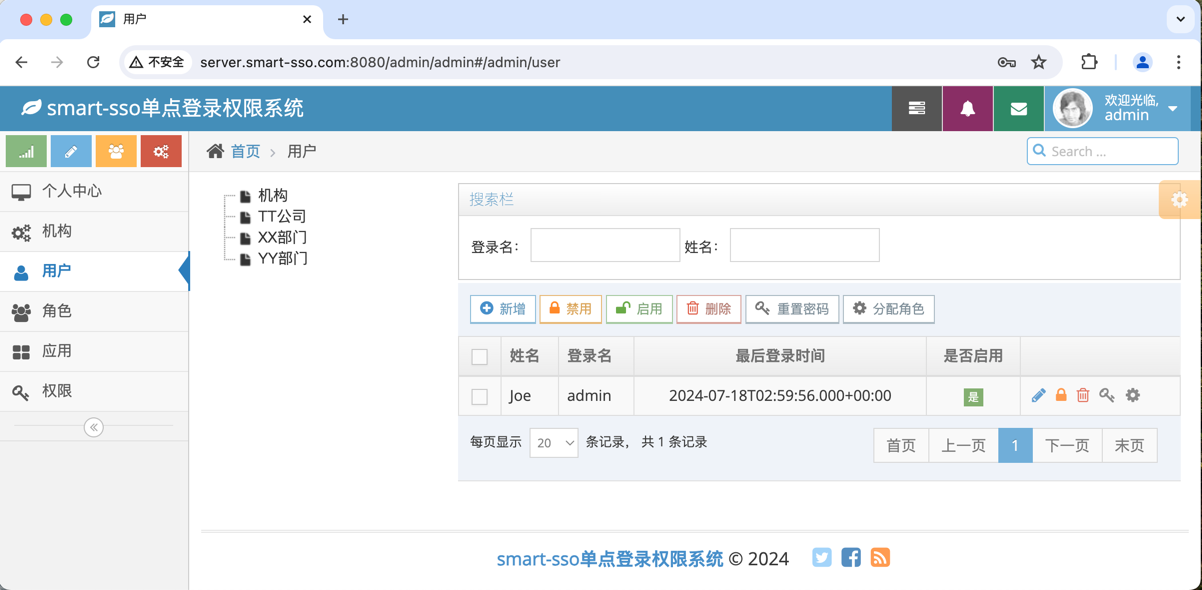
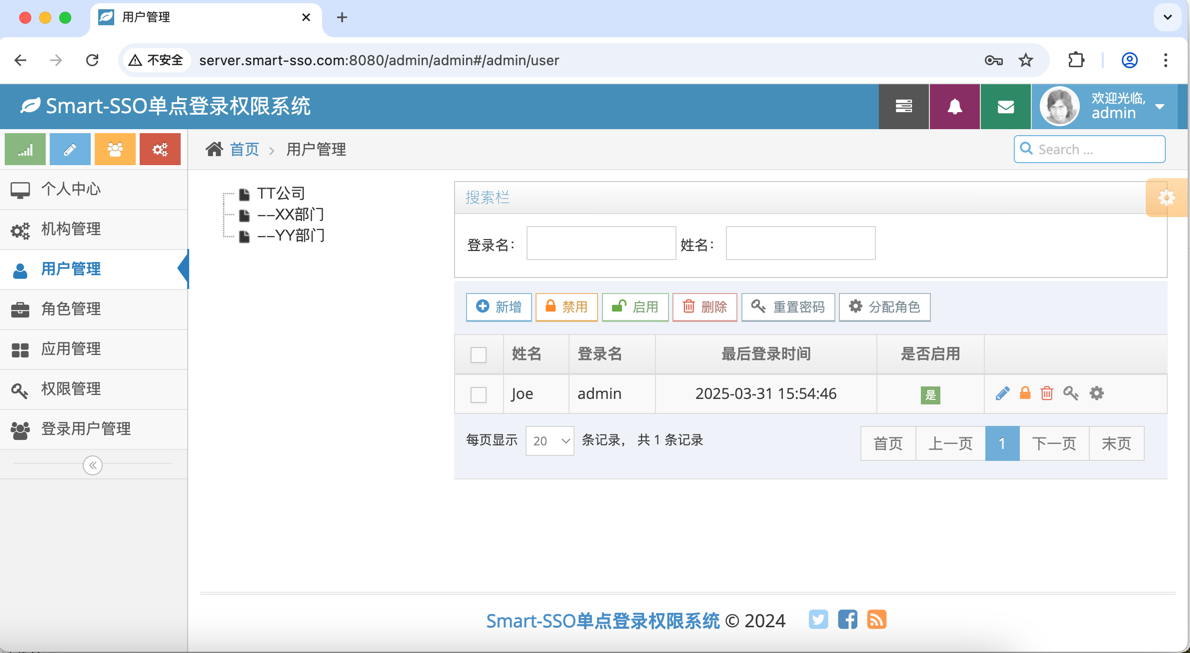
踢人下线

diff --git a/smart-sso-server/src/main/resources/templates/admin/permission.html b/smart-sso-server/src/main/resources/templates/admin/permission.html
@@ -1,4 +1,4 @@
-<title>权限</title>
+<title>权限管理</title>
 <#include "../common/common.html"/>
 
 <link rel="stylesheet" href="${request.contextPath}/static/custom/zTree/css/metroStyle/metroStyle.css?v=1" />

diff --git a/smart-sso-server/src/main/resources/templates/admin/user.html b/smart-sso-server/src/main/resources/templates/admin/user.html
@@ -1,4 +1,4 @@
-<title>用户</title>
+<title>用户管理</title>
 <#include "../common/common.html"/>
 
 <link rel="stylesheet" href="${request.contextPath}/static/custom/zTree/css/metroStyle/metroStyle.css?v=1" />

diff --git a/smart-sso-server/src/main/resources/templates/admin/login-user.html b/smart-sso-server/src/main/resources/templates/admin/login-user.html
@@ -1,4 +1,4 @@
-<title>登录用户</title>
+<title>登录用户管理</title>
 <#include "../common/common.html"/>
 
 <div class="row">

diff --git a/smart-sso-server/src/main/resources/templates/admin/app-edit.html b/smart-sso-server/src/main/resources/templates/admin/app-edit.html
@@ -1,4 +1,4 @@
-<title>应用</title>
+<title>应用管理</title>
 <#include "../common/common.html"/>
 
 <div class="page-header">

diff --git a/smart-sso-server/src/main/resources/templates/admin/office-edit.html b/smart-sso-server/src/main/resources/templates/admin/office-edit.html
@@ -1,4 +1,4 @@
-<title>机构</title>
+<title>机构管理</title>
 <#include "../common/common.html"/>
 
 <div class="page-header">

diff --git a/smart-sso-server/src/main/resources/templates/admin/user-edit.html b/smart-sso-server/src/main/resources/templates/admin/user-edit.html
@@ -1,4 +1,4 @@
-<title>用户</title>
+<title>用户管理</title>
 <#include "../common/common.html"/>
 
 <div class="page-header">

diff --git a/smart-sso-server/src/main/resources/templates/admin/app.html b/smart-sso-server/src/main/resources/templates/admin/app.html
@@ -1,4 +1,4 @@
-<title>应用</title>
+<title>应用管理</title>
 <#include "../common/common.html"/>
 
 <div class="row">

diff --git a/smart-sso-server/src/main/resources/templates/admin/office.html b/smart-sso-server/src/main/resources/templates/admin/office.html
@@ -1,4 +1,4 @@
-<title>机构</title>
+<title>机构管理</title>
 <#include "../common/common.html"/>
 
 <div class="row">

diff --git a/smart-sso-server/src/main/resources/templates/admin/role.html b/smart-sso-server/src/main/resources/templates/admin/role.html
@@ -1,4 +1,4 @@
-<title>角色</title>
+<title>角色管理</title>
 <#include "../common/common.html"/>
 
 <div class="row">

diff --git a/smart-sso-server/src/main/resources/templates/admin/role-edit.html b/smart-sso-server/src/main/resources/templates/admin/role-edit.html
@@ -1,4 +1,4 @@
-<title>角色</title>
+<title>角色管理</title>
 <#include "../common/common.html"/>
 
 
